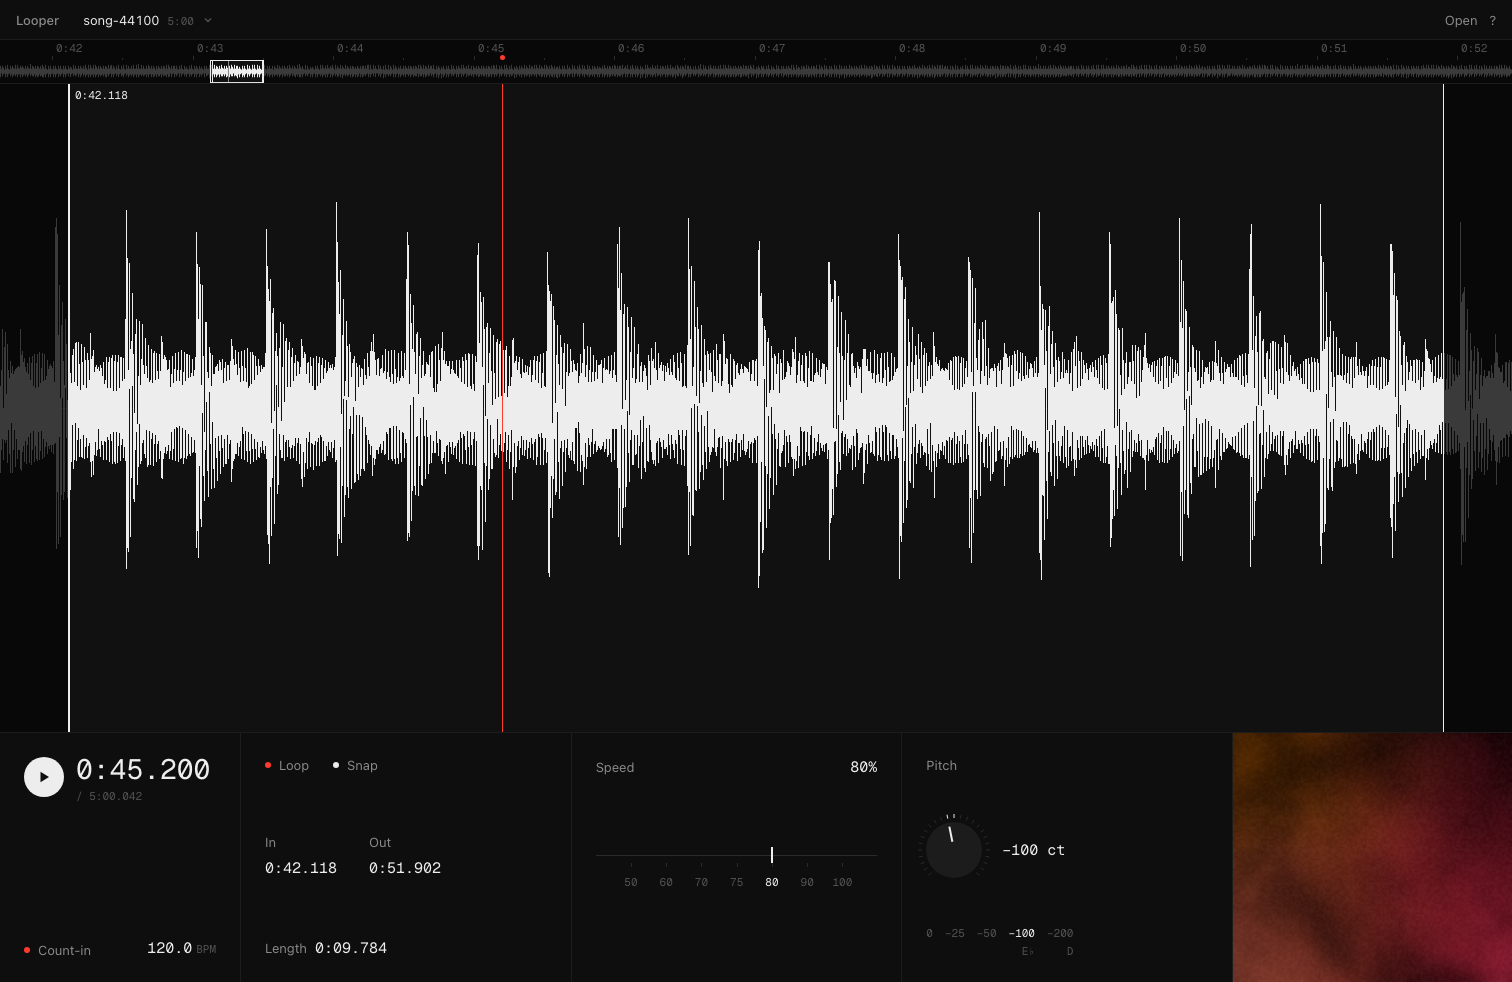
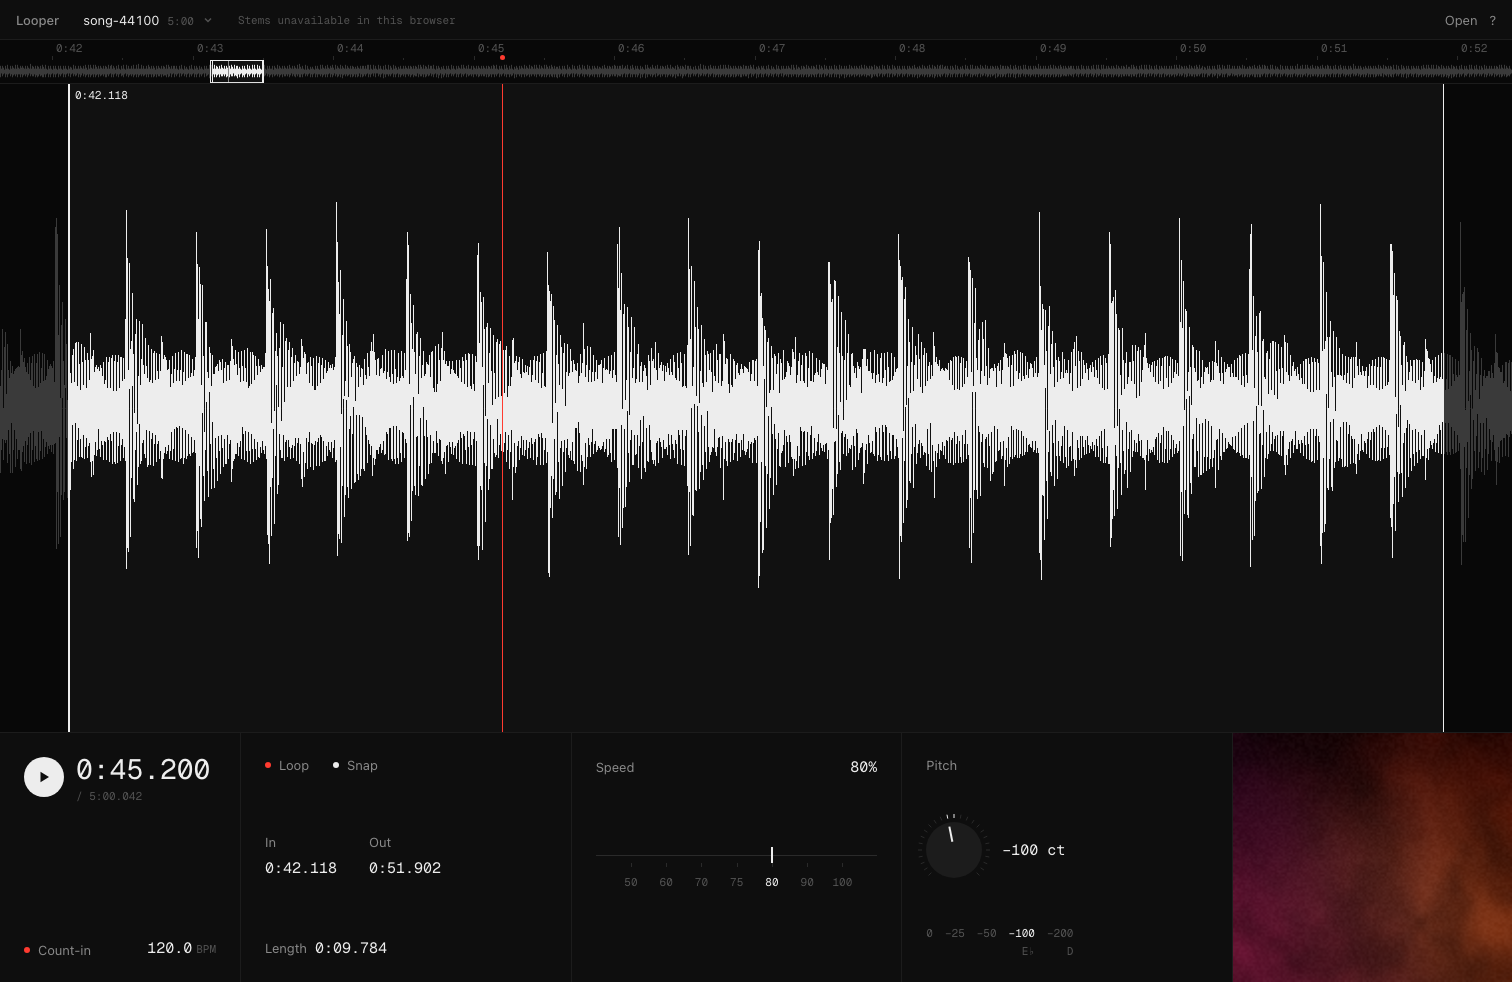
phase 8: measurements, WebKit result, open issues, docs

Changed region(s): [[0.8082, 0.7332, 0.9636, 1.0], [0.9325, 0.9165, 1.0, 1.0], [0.9947, 0.7943, 1.0, 0.8248]]

diff --git a/DECISIONS.md b/DECISIONS.md
@@ -113,3 +113,11 @@ No problem needed the three-attempts escape hatch. Known limitations are listed 
 - **Lanes** are drawn on one canvas (continuous loop band, edges and playhead through all lanes), full width under a 96 px gutter overlay so their time axis stays aligned with the main waveform. Lanes use stored peaks only, so at sample-level zoom they show 32-frame buckets rather than samples. Inaudible lanes keep `--wave-default` inside the loop. Lanes accept the same pointer/scroll input as the main waveform.
 - **Re-separate (fine)** appears on hover in the current track's Recent row (replacing its metadata), and replaces the stems with `htdemucs_ft`'s four.
 - **Visualiser drops to 30 fps** while a separation runs, as SPEC allows.
+- **Measured on this M1 in headed Chromium (Metal), model cached.** A 2-minute track separated in **422 s (≈3.5× real time)**: about 78 s of setup (wasm init, weight upload, shader compilation, first chunk), then ~28 s per 7.8 s chunk. A 30 s clip takes ~178 s. A 4–5 minute song would take roughly 15–19 minutes. The owner asked for the timing run on a 2-minute track (`song-2min` fixture) after a 5-minute run made the laptop too hot, so the 5-minute figure is extrapolated, not measured.
+- **WebKit: WebGPU adapter present, but demucs-rs fails.** cubecl-wgpu 0.9 panics in `compute/timings.rs` (`Failed to map buffer: BufferAsyncError`) under Playwright WebKit, with and without Burn's `autotune` and `fusion` features. The browser separator now treats a wasm panic as "this browser cannot run it": the job ends and the top bar shows `Stems unavailable in this browser` for the rest of the session, instead of failing on every track. Irrelevant to phase 9, where separation runs natively.
+- **Stock upstream build kept.** Builds without `autotune` and without `fusion` were tried; neither changed speed (≈180 s for 30 s) nor fixed the WebKit panic or the UI stall below, so the vendored wasm is the unmodified v0.3.5 configuration.
+
+## Open issues
+
+- **UI freezes for ~50–80 s when a separation starts** (Chromium, M1). During model upload, shader compilation and the first chunk, the GPU process is saturated: rendering stalls (one rAF gap of 47–77 s) even though JS timers keep running in two of three runs. After the first chunk the UI holds 60 fps (median 60, 5th percentile 23 fps over a 2-minute separation). So "never below 30 fps" is **not met** for that first minute. Tried: (1) the stock build, (2) no Burn `autotune`, (3) no Burn `fusion`; all stall similarly. Best hypothesis: weight upload and pipeline creation for the whole model happen in one burst in Chrome's GPU process, which also composites the page; work inside demucs-rs/Burn would need to be spread out (smaller submissions, lazy pipeline creation) to fix it. Workaround: none beyond the visualiser dropping to 30 fps; the status shows progress and `Stop` still works once frames resume. Phase 9 removes the problem by separating natively, outside the browser's GPU process.
+- **Separation is slow in the browser** (~3.5× real time on M1). Upstream says the wasm build is much slower than its native CLI; phase 9's native path is the fix.

diff --git a/README.md b/README.md
@@ -98,9 +98,14 @@ They land in `screenshots/phase-7/` at 1280×800 and 1512×982.
 scripts/build-demucs.sh
 ```
 
-WebGPU is required. In Playwright, headed Chromium and WebKit expose a WebGPU adapter; headless Chromium and Firefox do not, so automated tests use a stub separator (`?separator=stub`).
+WebGPU is required. Measured on an M1 in Chromium (model cached): a 2-minute track separates in about 7 minutes (≈3.5× real time; a 4–5 minute song would take roughly 15–19 minutes). The first ~80 s include model upload and shader compilation, during which the page can stop rendering (see Known issues). The model downloads once (84 MB, 333 MB for the fine model) from Hugging Face.
+
+In Playwright, headed Chromium and WebKit expose a WebGPU adapter; headless Chromium and Firefox do not, so automated tests use a stub separator (`?separator=stub`).
 
 ## Known issues
+
+- **Stems in the browser are slow, and the UI can freeze for up to ~80 s when a separation starts** (GPU process saturated while the model uploads and its shaders compile; it renders at 60 fps afterwards). Phase 9 moves separation out of the browser. Details in DECISIONS.md, Open issues.
+- **Stems don't work in Safari/WebKit yet**: WebGPU is present but demucs-rs's GPU layer (cubecl) crashes there; the app shows `Stems unavailable in this browser`. Firefox has no WebGPU adapter.
 
 - **Start latency.** After pressing play, audio is heard ~120 ms later at 100 % (48 kHz), more at slower speeds: the stretcher's input plus output latency. The playhead holds at the start frame until then, so it never lies. See DECISIONS.md.
 - **Real-device performance is unmeasured.** Budgets were verified with headless Chromium traces on this machine, not in Dia on the target M1.

diff --git a/PLAN.md b/PLAN.md
@@ -104,8 +104,8 @@ Working memory for the build. SPEC.md is the source of truth; deviations go in D
 - [x] Recent row: `Re-separate (fine)` (htdemucs_ft)
 - [x] Visualiser drops to 30 fps while separating
 - [x] Tests: mixer switching, mute/solo, cancellation, stem storage + eviction, all with the stub
-- [ ] Measure: 4–5 min track separation time on this M1 in Chromium; UI ≥ 30 fps during separation
-- [ ] Docs + verify + commit
+- [x] Measure separation time on this M1 in Chromium (2-min track per owner: 422 s); UI fps measured: ≥ 30 fps except a 50–80 s stall at start (open issue)
+- [x] Docs + verify + commit
 
 ## Phase 9: Tauri (future, not started)
 
